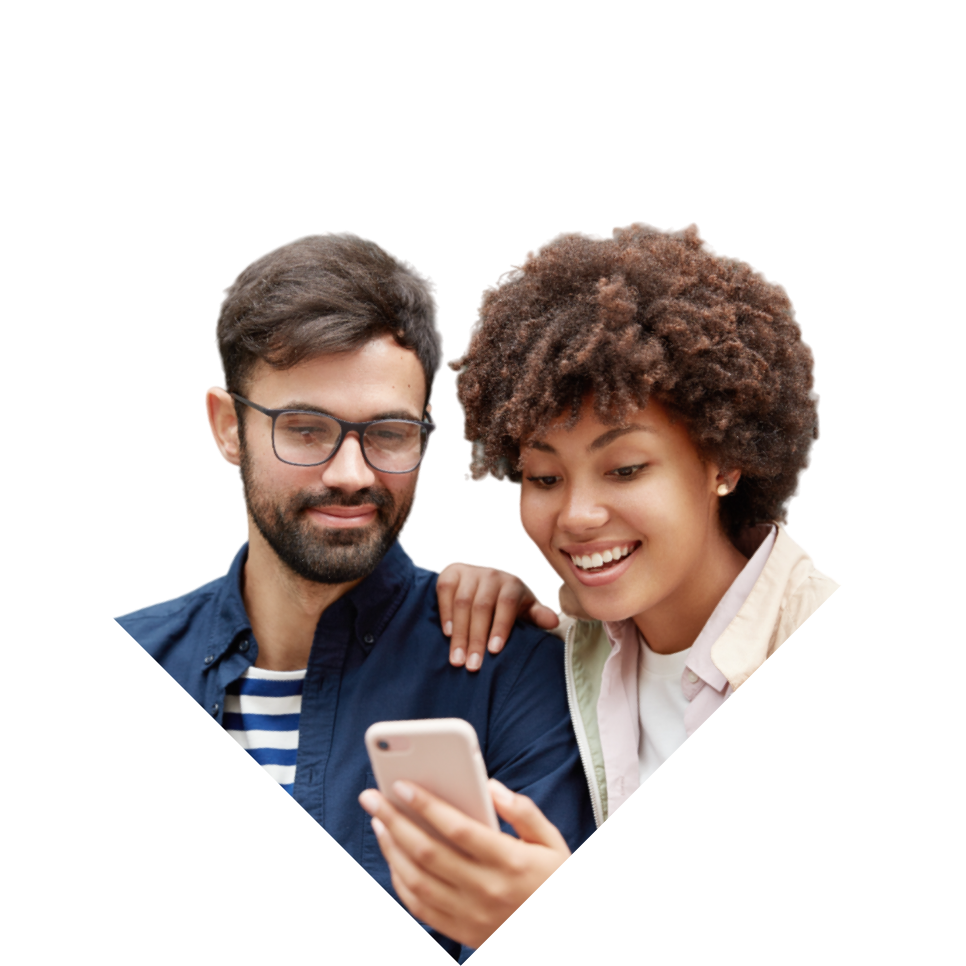
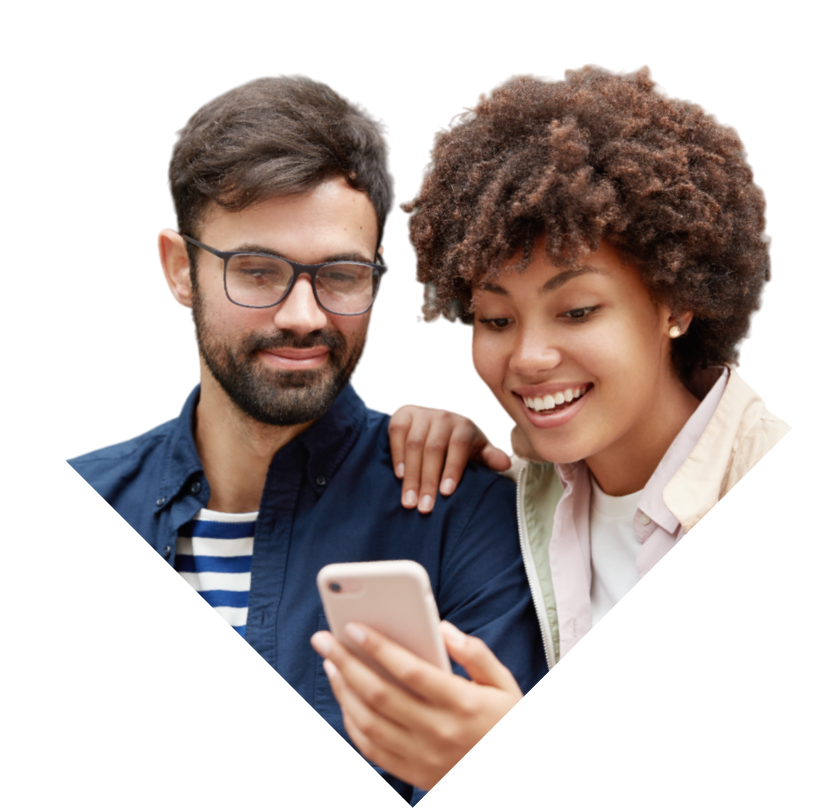
ajusta seções da página inicial

diff --git a/src/app/inicio/heroSection.jsx b/src/app/inicio/heroSection.jsx
@@ -10,53 +10,47 @@ import "swiper/css/navigation";
 import "swiper/css/pagination";
 
 import { EffectFade, Autoplay } from "swiper/modules";
+import LinkButton from "@/components/layout/LinkButton";
 
 const HeroSection = () => {
   return (
-    <div className="flex min-w-full min-h-screen lg:px-20">
-      <div className="flex flex-col-reverse lg:flex-row flex-grow items-center relative">
-        <div className="min-h-screen flex flex-col justify-center gap-10  z-30">
-          <span>
-            <h1 className="font-bold">Expanda seus lucros</h1>
-            <h1>com a orientação de um</h1>
-            <h1 className="font-bold">contador comprometido</h1>
-          </span>
-          <div className="flex flex-col lg:flex-row gap-4">
-            <Link
-              href="/serviços"
-              className="p-2 lg:p-3 bg-yellow-500 rounded-2xl hover:opacity-80"
-            >
-              <h3>Conheça nossas soluções</h3>
-            </Link>
-            <Link
-              href="https://api.whatsapp.com/send?phone=551938932236&text=Olá!%20Gostaria%20de%20saber%20mais%20sobre%20os%20serviços%20da%20contabilidade."
-              className="flex gap-2 items-center  hover:opacity-80"
-            >
-              <h3>Fale com um especialista</h3>
-              <ArrowRight />
-            </Link>
-          </div>
-        </div>
-
-        <div className="w-[15rem] h-[15rem] lg:w-[30rem] lg:h-[30rem] lmd:h-[40rem] lmd:w-[40rem] xlg:w-[50rem] xlg:h-[50rem] overflow-hidden absolute lg:right-[-50px] lmd:right-[-20px] top-5">
-          <Swiper
-            spaceBetween={20}
-            slidesPerView={1}
-            effect={"fade"}
-            autoplay={{
-              delay: 5000,
-              disableOnInteraction: false,
-            }}
-            modules={[EffectFade, Autoplay]}
-          >
-            <SwiperSlide className="bg-carousel-one bg-contain flex min-h-screen"></SwiperSlide>
-            <SwiperSlide className="bg-carousel-two bg-contain flex min-h-screen"></SwiperSlide>
-            <SwiperSlide className="bg-carousel-three bg-contain flex min-h-screen"></SwiperSlide>
-            {/* <SwiperSlide className="bg-blue-500 flex min-h-screen"></SwiperSlide> */}
-          </Swiper>
-        </div>
+    <section className="flex flex-col w-full items-center justify-center gap-6 lg:flex-row-reverse lg:justify-between">
+      <div>
+      <Swiper
+        spaceBetween={20}
+        slidesPerView={1}
+        effect={"fade"}
+        autoplay={{
+          delay: 5000,
+          disableOnInteraction: false,
+        }}
+        modules={[EffectFade, Autoplay]}
+        className="w-[15rem] h-[15rem] overflow-hidden lg:w-[20rem] lg:h-[20rem] lmd:w-[35rem] lmd:h-[35rem] xlg:w-[45rem] xlg:h-[45rem]"
+      >
+        <SwiperSlide className="bg-carousel-one bg-contain flex"></SwiperSlide>
+        <SwiperSlide className="bg-carousel-two bg-contain flex"></SwiperSlide>
+        <SwiperSlide className="bg-carousel-three bg-contain flex"></SwiperSlide>
+      </Swiper>
       </div>
-    </div>
+
+      <section className="flex flex-col items-center justify-center gap-6 lg:items-start">
+        <span className="flex flex-col">
+          <mark>Expanda seus lucros</mark>
+          <strong>com a orientação de um</strong>
+          <mark>contador comprometido</mark>
+        </span>
+        <div className="flex flex-col items-center justify-center gap-6 lmd:flex-row">
+          <LinkButton href="/servicos" name="Conheça as nossas soluções" />
+          <Link
+            href="https://api.whatsapp.com/send?phone=551938932236&text=Olá!%20Gostaria%20de%20saber%20mais%20sobre%20os%20serviços%20da%20contabilidade."
+            className="flex gap-2 items-center  hover:opacity-80"
+          >
+            <h3>Fale com um especialista</h3>
+            <ArrowRight />
+          </Link>
+        </div>
+      </section>
+    </section>
   );
 };
 

diff --git a/src/components/layout/InfoCard.jsx b/src/components/layout/InfoCard.jsx
@@ -5,35 +5,27 @@
 
 import { Clipboard } from "../svgs";
 
-const InfoCard = ({ serviceSectionText }) => {
+const InfoCard = ({ title, list }) => {
   return (
-    <div className="min-h-screen flex flex-col lg:flex-row justify-center items-center lg:items-center gap-5 py-5">
-      {serviceSectionText.map((section) => {
-        const key = Object.keys(section)[0];
-        return (
-          <section
-            key={key}
-            className="inline-flex items-center p-5 xlg:p-10 h-[45vh] w-[35vh] lg:h-[40vh] lg:w-[30vh] lmd:h-[50vh] lmd:w-[37.5vh] justify-center rounded-lg lg:px-4 lg:py-6 lg:rounded-[1.25rem] hover:bg-[#F6BE25] group relative cursor-pointer"
-          >
-            <article className="flex flex-col items-start gap-6 w-[50vh] h-[30vh]">
-              <h1 className="text-[#F6BE25] group-hover:text-[#323231]">
-                {key}
-              </h1>
-              <ul>
-                {section[key].map((item, index) => (
-                  <li key={index}>
-                    <p>{item}</p>
-                  </li>
-                ))}
-              </ul>
-            </article>
-            <div className="w-10 lg:w-12 lmd:w-16 xlg:w-20 absolute bottom-5 right-5">
-              <Clipboard />
-            </div>
-          </section>
-        );
-      })}
-    </div>
+    <a
+      href="/servicos"
+      target="_blank"
+      className="inline-flex items-start p-2 justify-center w-[16rem] h-[15.25rem] rounded-lg lmd:w-[25.625rem] lmd:h-[23rem] lmd:px-4 lmd:py-6 lmd:rounded-[1.25rem] hover:bg-[#F6BE25] group cursor-pointer transition-colors duration-500"
+    >
+      <article className="flex flex-col items-start gap-6 w-[12.5rem] lmd:w-[19.625rem]">
+        <h1 className="text-[#F6BE25] group-hover:text-[#323231]">{title}</h1>
+        <ul>
+          {list.map((item, index) => (
+            <li key={index}>
+              <p>{item}</p>
+            </li>
+          ))}
+        </ul>
+      </article>
+      <div className="w-10 lmd:w-20 self-end">
+        <Clipboard />
+      </div>
+    </a>
   );
 };
 

diff --git a/src/app/inicio/mainSection.jsx b/src/app/inicio/mainSection.jsx
@@ -1,33 +1,8 @@
-import React from "react";
-import BlackMan from "@/../../public/jovem-afro.png";
-import Image from "next/image";
-
-const MainSection = () => {
+const MainSection = ({ children }) => {
   return (
-    <section className="flex flex-col w-full px-4 py-6 items-center gap-6 lg:flex-row lg:justify-between lg:px-20 lg:py-16 lmd:py-32 xlg:px-[16rem] xlg:py-[11.5rem] h-full">
-      <div className="relative w-[18.5rem] h-[18rem] lmd:w-[28rem] lmd:h-[28rem] xlg:w-[43rem] xlg:h-[43rem]">
-        <Image
-          src={BlackMan}
-          alt="Homem negro apontando com o dedo"
-          placeholder="blur"
-          sizes="(max-width: 1024px) 384px, (max-width: 1440px) 640px"
-          fill
-        />
-      </div>
-      <article className="flex flex-col items-start gap-6 lg:w-[23rem] lmd:w-[38rem] xlg:w-[46rem]">
-        <h1 className="text-[#F6BE25]">Prevenção de risco empresarial</h1>
-        <p>
-          Imagine estar um passo à frente dos problemas e dos riscos de
-          fiscalização em sua empresa?!
-        </p>
-        <h2>
-          Isso também é parte de nossa entrega: nós não apenas verificamos
-          periodicamente as informações da sua empresa, mas também mantemos uma
-          guarda constante contra os riscos de fiscalização. Porque sua
-          tranquilidade é o nosso foco!
-        </h2>
-      </article>
-    </section>
+    <main className="flex flex-col items-center justify-center px-4 py-6 gap-6 bg-los-mobile bg-cover bg-no-repeat lg:bg-los-desktop lg:gap-32 lg:px-20 lg:py-16 xlg:px-32 ">
+      {children}
+    </main>
   );
 };
 

diff --git a/src/app/inicio/preventionSection.jsx b/src/app/inicio/preventionSection.jsx
@@ -1,0 +1,35 @@
+import BlackMan from "@/../../public/jovem-afro.png";
+import Image from "next/image";
+
+const PreventionSection = () => {
+  return (
+    <section className="flex flex-col w-full items-center gap-6 lg:flex-row lg:justify-between xlg:px-[7rem]">
+      <div className="relative w-[18.5rem] h-[18rem] lmd:w-[28rem] lmd:h-[28rem] xlg:w-[35rem] xlg:h-[35rem]">
+        <Image
+          src={BlackMan}
+          alt="Homem negro apontando com o dedo"
+          placeholder="blur"
+          sizes="(max-width: 1024px) 384px, (max-width: 1440px) 640px"
+          fill
+        />
+      </div>
+      <article className="flex flex-col items-start gap-6 lg:w-[23rem] lmd:w-[38rem] xlg:w-[46rem]">
+        <h1>Prevenção de risco empresarial</h1>
+        <div className="flex flex-col gap-4">
+          <p>
+            Imagine estar um passo à frente dos problemas e dos riscos de
+            fiscalização em sua empresa?!
+          </p>
+          <p>
+            Isso também é parte de nossa entrega: nós não apenas verificamos
+            periodicamente as informações da sua empresa, mas também mantemos
+            uma guarda constante contra os riscos de fiscalização. Porque sua
+            tranquilidade é o nosso foco!
+          </p>
+        </div>
+      </article>
+    </section>
+  );
+};
+
+export default PreventionSection;

diff --git a/src/app/inicio/page.js b/src/app/inicio/page.js
@@ -5,26 +5,21 @@ import DreamSection from "../../components/commum-sections/dreamSection";
 import AboutSection from "./aboutSection";
 import HeroSection from "./heroSection";
 import MainSection from "./mainSection";
-import ReactPageScroller from "react-page-scroller";
-import {
-  serviceSectionText,
-  serviceSectionText2,
-} from "@/helpers/servicesSectionText";
-import InfoCard from "../../components/layout/InfoCard";
+import PreventionSection from "./preventionSection";
+import InfoSection from "./infoSection";
 
 export default function Inicio() {
   return (
-    // <ReactPageScroller>
     <div>
-      <HeroSection />
-      <InfoCard serviceSectionText={serviceSectionText} />
-      {/* <InfoCard serviceSectionText={serviceSectionText2} /> */}
-      <MainSection />
+      <MainSection>
+        <HeroSection />
+        <InfoSection />
+        <PreventionSection />
+      </MainSection>
       <ServiceSection />
       <ContactSection />
       <AboutSection />
       <DreamSection />
     </div>
-    // </ReactPageScroller>
   );
 }

diff --git a/src/helpers/servicesSectionText.js b/src/helpers/servicesSectionText.js
@@ -1,6 +1,7 @@
 export const serviceSectionText = [
   {
-    "Área Contábil": [
+    title: "Área Contábil",
+    list: [
       "Balanços",
       "Balancetes",
       "Despesas",
@@ -11,7 +12,8 @@ export const serviceSectionText = [
     ],
   },
   {
-    "Área Fiscal": [
+    title: "Área Fiscal",
+    list: [
       "Estoques",
       "Fiscalizações",
       "ICMS",
@@ -23,7 +25,8 @@ export const serviceSectionText = [
     ],
   },
   {
-    "Área Comercial": [
+    title: "Área Comercial",
+    list: [
       "Criticas e Sugestões",
       "Imposto de Renda",
       "Parcelamentos",
@@ -32,7 +35,8 @@ export const serviceSectionText = [
     ],
   },
   {
-    "Área Trabalhista": [
+    title: "Área Trabalhista",
+    list: [
       "Contratos de experiência",
       "Dessídios",
       "Férias",

diff --git a/src/app/inicio/infoSection.jsx b/src/app/inicio/infoSection.jsx
@@ -1,0 +1,19 @@
+import InfoCard from "@/components/layout/InfoCard";
+import { serviceSectionText as info } from "@/helpers/servicesSectionText";
+
+const InfoSection = () => {
+  return (
+    <section className="flex flex-col items-center justify-center gap-4 lg:gap-6 lmd:gap-20 xlg:flex-row xlg:gap-4">
+      <div className="flex flex-col gap-4 lg:flex-row lg:gap-32  lmd:gap-40 xlg:gap-4">
+        <InfoCard title={info[0].title} list={info[0].list} />
+        <InfoCard title={info[1].title} list={info[1].list} />
+      </div>
+      <div className="flex flex-col gap-4 lg:flex-row lg:gap-32  lmd:gap-40 xlg:gap-4">
+        <InfoCard title={info[2].title} list={info[2].list} />
+        <InfoCard title={info[3].title} list={info[3].list} />
+      </div>
+    </section>
+  );
+};
+
+export default InfoSection;

diff --git a/src/app/inicio/serviceSection.jsx b/src/app/inicio/serviceSection.jsx
@@ -17,7 +17,7 @@ const ServiceSection = () => {
           cliente.
         </h2>
       </article>
-      <div className="relative w-[18.5rem] h-[18rem] lmd:w-[28rem] lmd:h-[28rem] xlg:w-[43rem] xlg:h-[43rem]">
+      <div className="relative w-[18.5rem] h-[18rem] lmd:w-[28rem] lmd:h-[28rem] xlg:w-[35rem] xlg:h-[35rem]">
         <Image
           src={PeopleOnCelphone}
           alt="Pessoas no celular"

diff --git a/tailwind.config.js b/tailwind.config.js
@@ -15,6 +15,8 @@ module.exports = {
         "carousel-one": "url('../../public/slide1.png')",
         "carousel-two": "url('../../public/slide2.png')",
         "carousel-three": "url('../../public/slide3.png')",
+        "los-mobile": "url('../../public/los mobile bg.png')",
+        "los-desktop": "url('../../public/los bg.png')",
       },
     },
     screens: {

diff --git a/src/components/layout/Navbar.jsx b/src/components/layout/Navbar.jsx
@@ -15,7 +15,7 @@ const Navbar = () => {
   };
 
   return (
-    <div className="flex flex-col bg-[#E9E9E9] px-16 py-4 z-50">
+    <div className="flex flex-col bg-[#E9E9E9] px-10 py-4 z-50">
       <CSSTransition
         in={menuActive}
         timeout={300}
